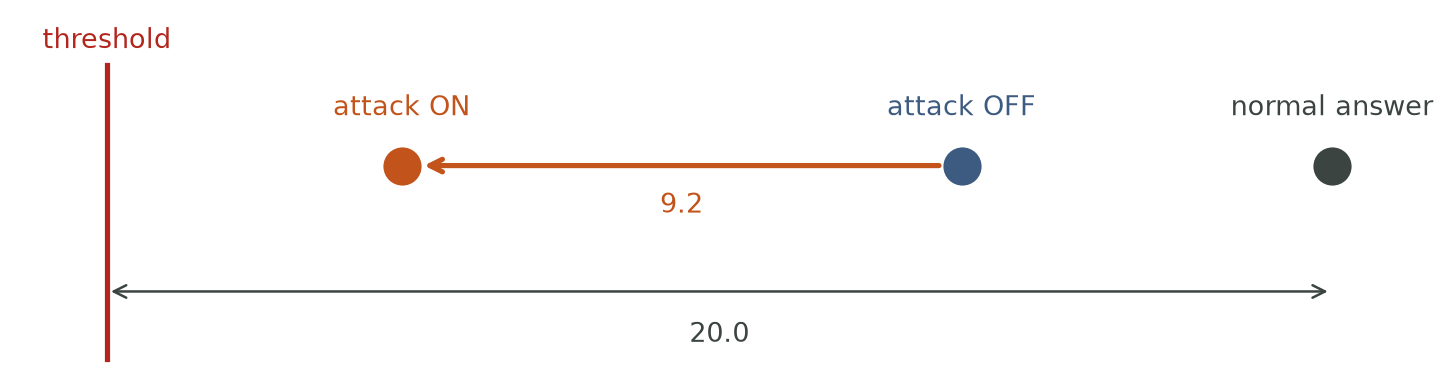
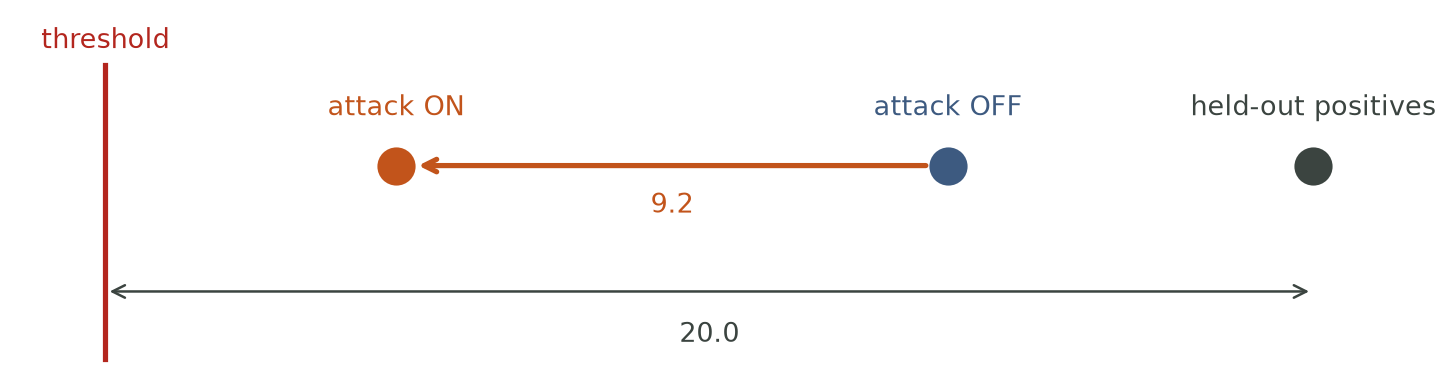
Figure 1: reference dot labelled held-out positives

diff --git a/analysis/post_v9/fig_2x2.py b/analysis/post_v9/fig_2x2.py
@@ -134,7 +134,7 @@ def draw_score(ax, fontsize: float = 13, dot_size: float = 300, line_label: bool
 def how_to_read() -> None:
     """Figure 1: what the score measures. The words go in the post's caption, not the figure."""
     fig, ax = plt.subplots(figsize=(10, 2.8))
-    draw_score(ax)
+    draw_score(ax, positive_label="held-out positives")
     fig.tight_layout()
     fig.savefig(HERE / "figures" / "how_to_read.png", bbox_inches="tight")
     plt.close(fig)
